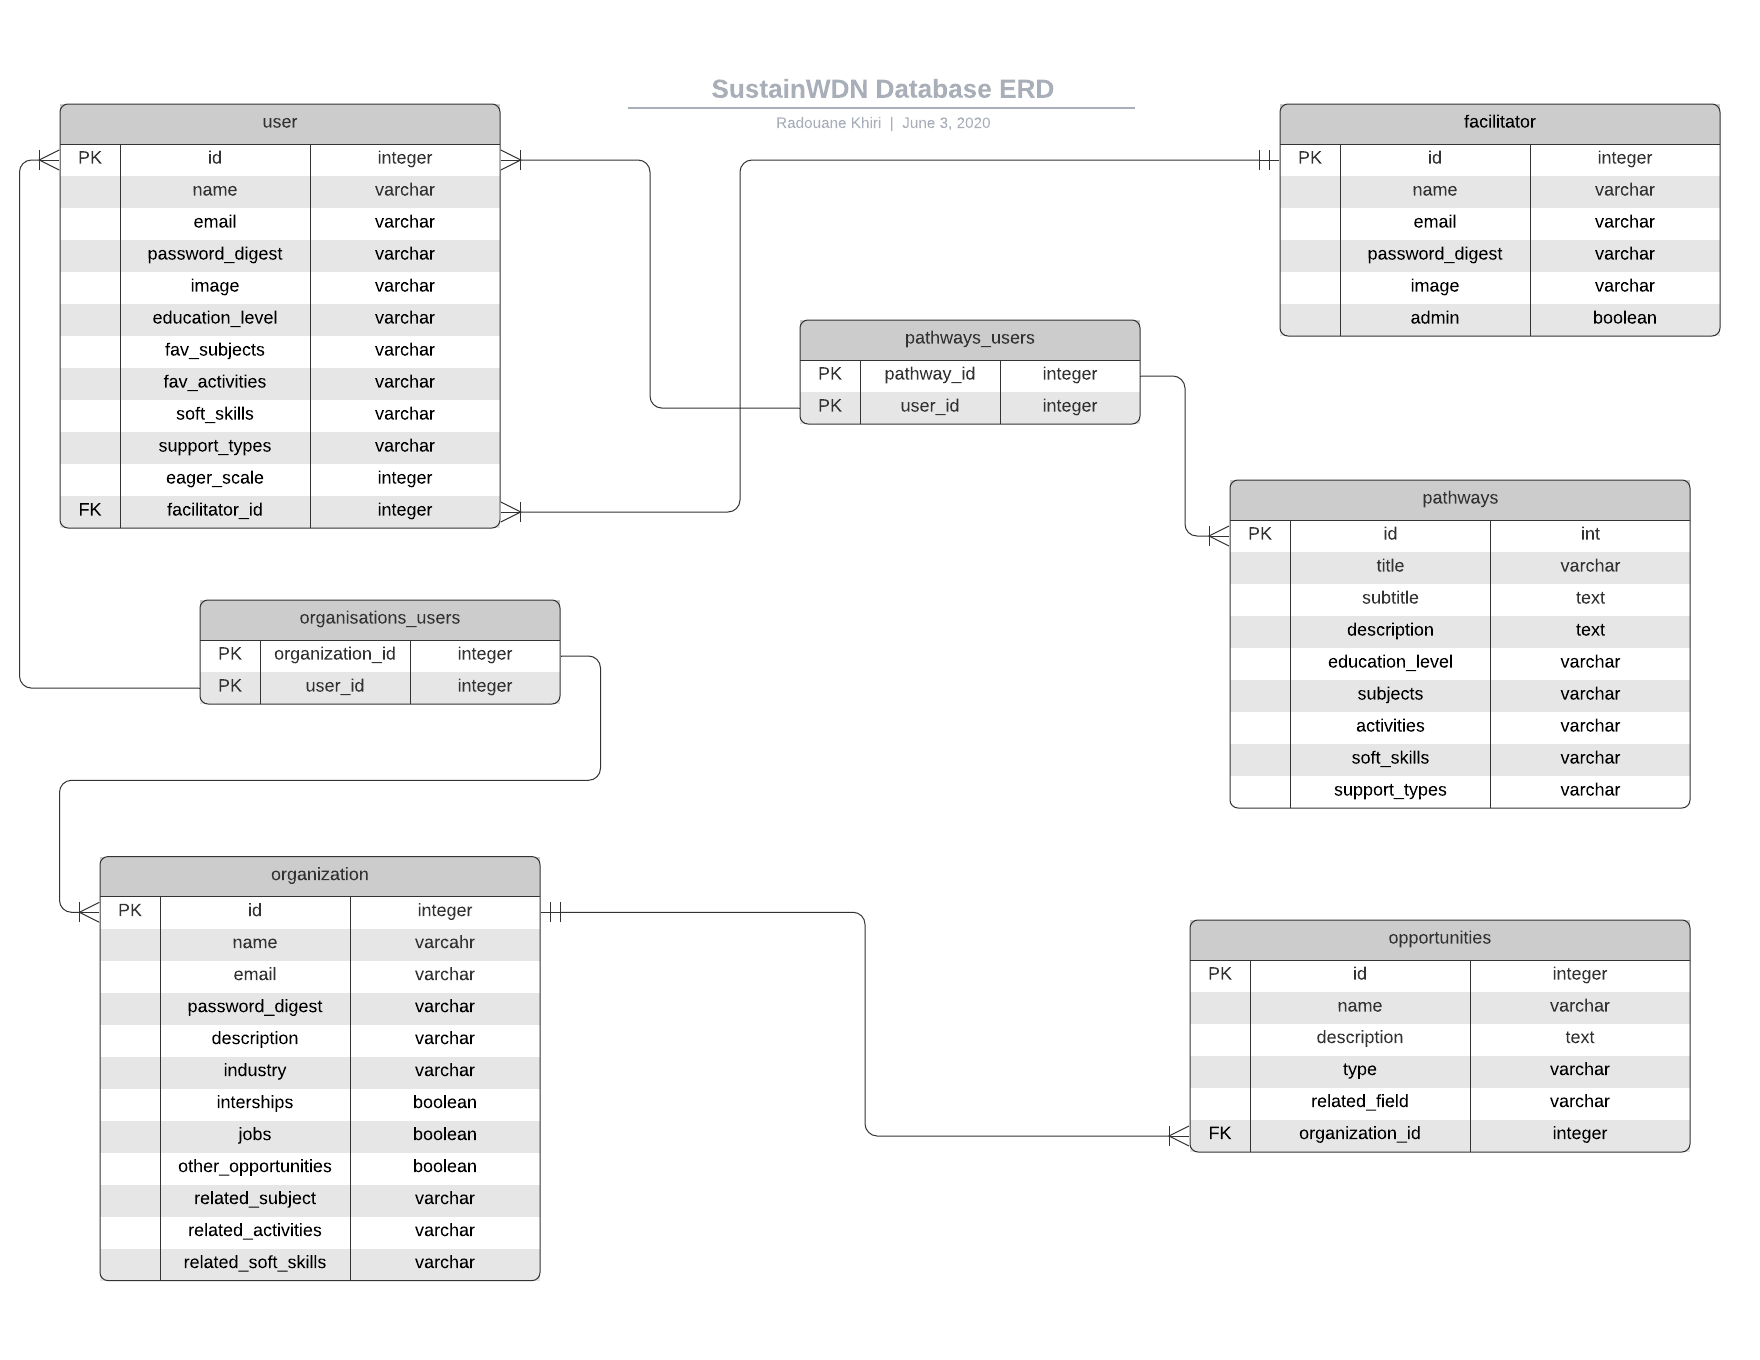
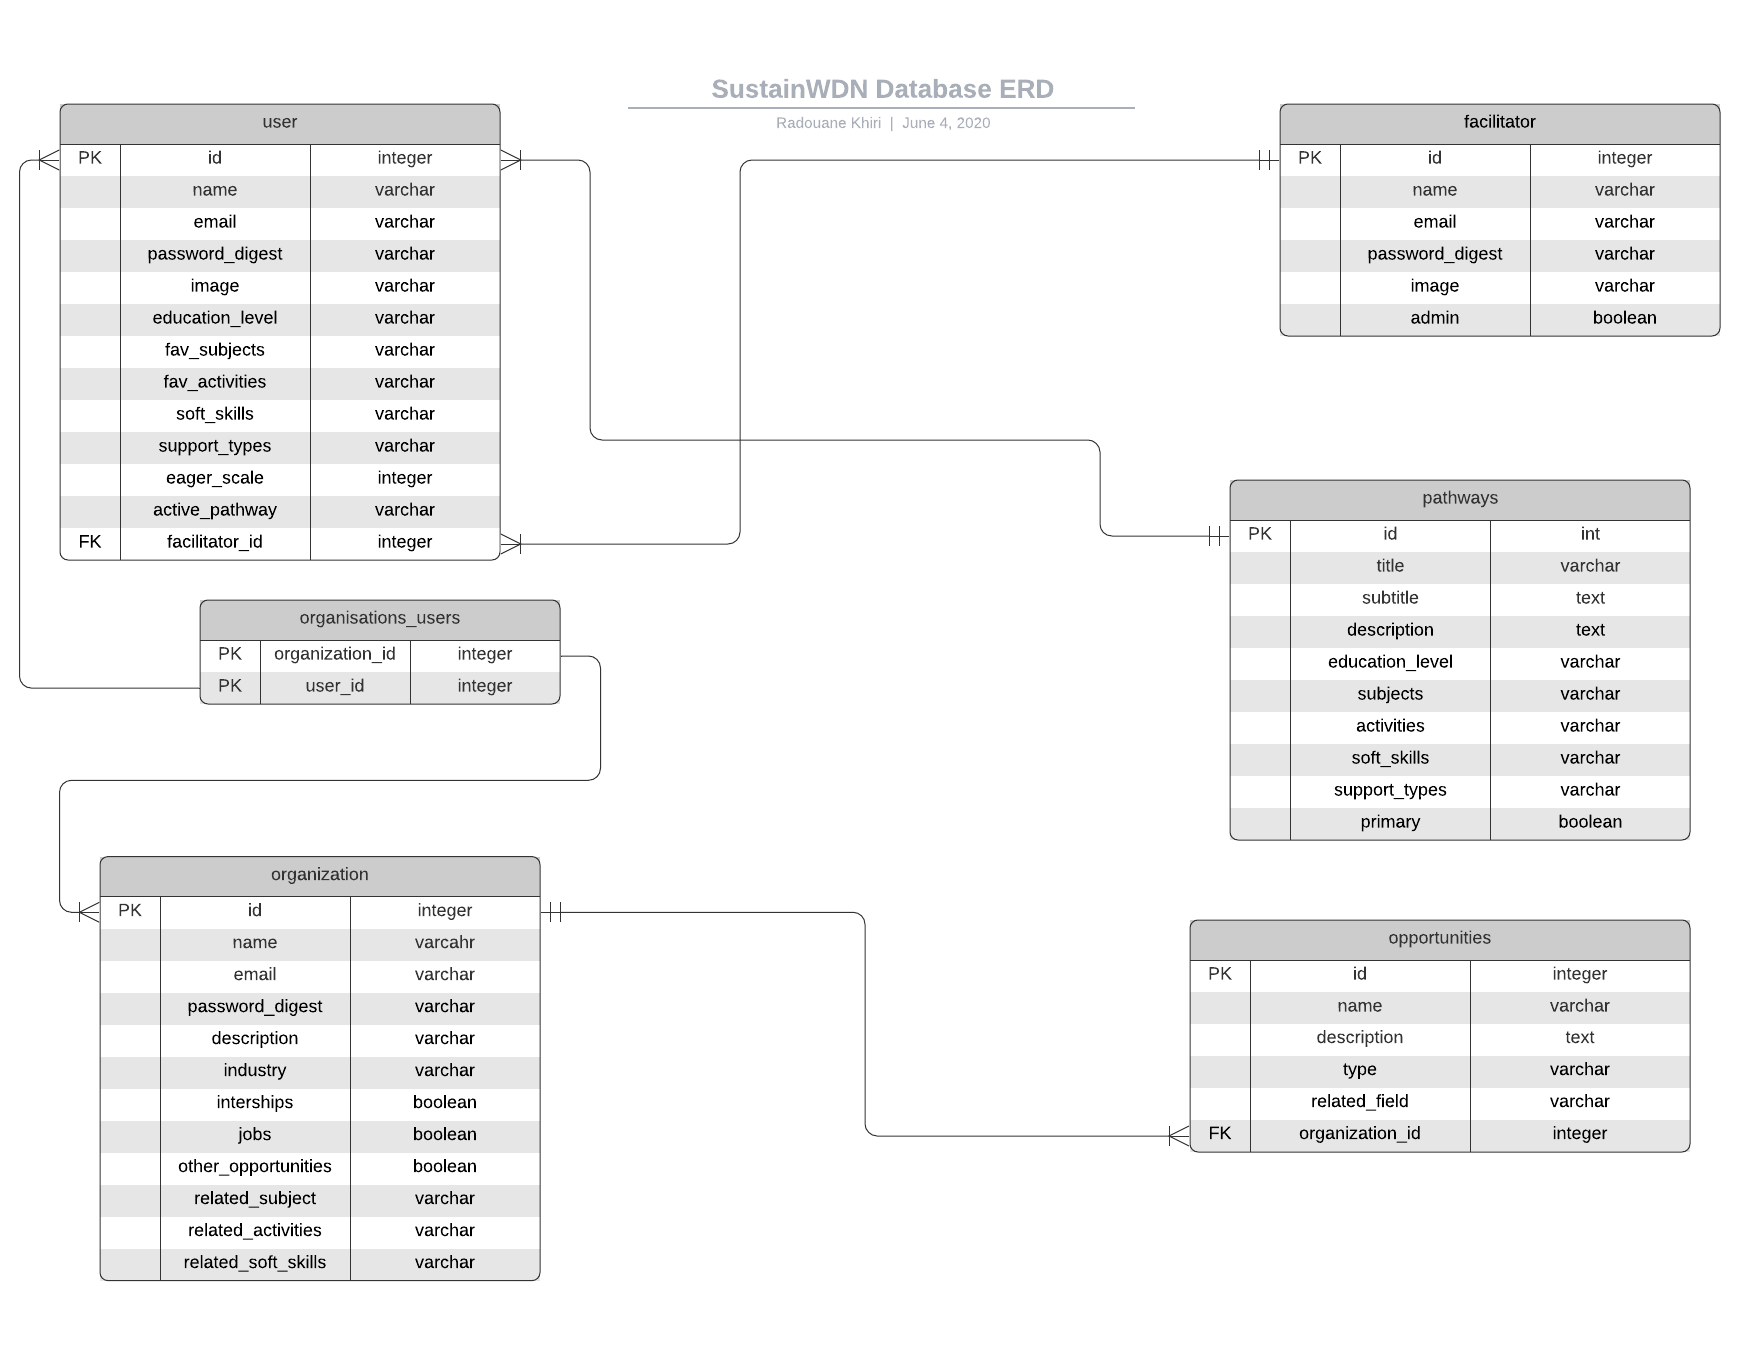
Update the users and pathways tables

diff --git a/db/schema.rb b/db/schema.rb
@@ -87,6 +87,7 @@ ActiveRecord::Schema.define(version: 2020_06_04_032255) do
     t.text "activities"
     t.text "soft_skills"
     t.text "support_types"
+    t.boolean "primary", default: true
     t.datetime "created_at", precision: 6, null: false
     t.datetime "updated_at", precision: 6, null: false
   end
@@ -107,6 +108,7 @@ ActiveRecord::Schema.define(version: 2020_06_04_032255) do
     t.string "soft_skills"
     t.string "support_types"
     t.integer "eager_scale"
+    t.string "active_pathway"
     t.datetime "created_at", precision: 6, null: false
     t.datetime "updated_at", precision: 6, null: false
     t.bigint "facilitator_id"

diff --git a/db/migrate/20200604000245_create_pathways.rb b/db/migrate/20200604000245_create_pathways.rb
@@ -9,6 +9,7 @@ class CreatePathways < ActiveRecord::Migration[6.0]
       t.text :activities
       t.text :soft_skills
       t.text :support_types
+      t.boolean :primary, default: true
 
       t.timestamps
     end

diff --git a/db/migrate/20200603234725_create_users.rb b/db/migrate/20200603234725_create_users.rb
@@ -10,6 +10,7 @@ class CreateUsers < ActiveRecord::Migration[6.0]
       t.string :soft_skills
       t.string :support_types
       t.integer :eager_scale
+      t.string :active_pathway
 
       t.timestamps
     end
